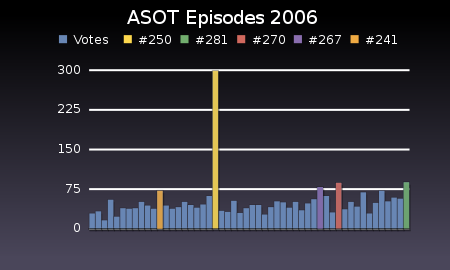
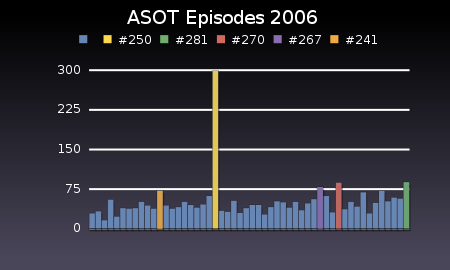
Removed "votes" from graph legend.

Changed region(s): [[0.1244, 0.1185, 0.8711, 0.1778]]

diff --git a/app/models/asot.rb b/app/models/asot.rb
@@ -145,7 +145,7 @@ class Asot < ActiveRecord::Base
    graph.title = "ASOT Episodes #{for_year}"
    graph.renderer = Scruffy::Renderers::Standard.new
 
-   graph.add :bar, "Votes", votes
+   graph.add :bar, "", votes
    1.upto(tops_shown) do |i|
      graph.add :bar, titles[i-1], tops[i-1]
    end
